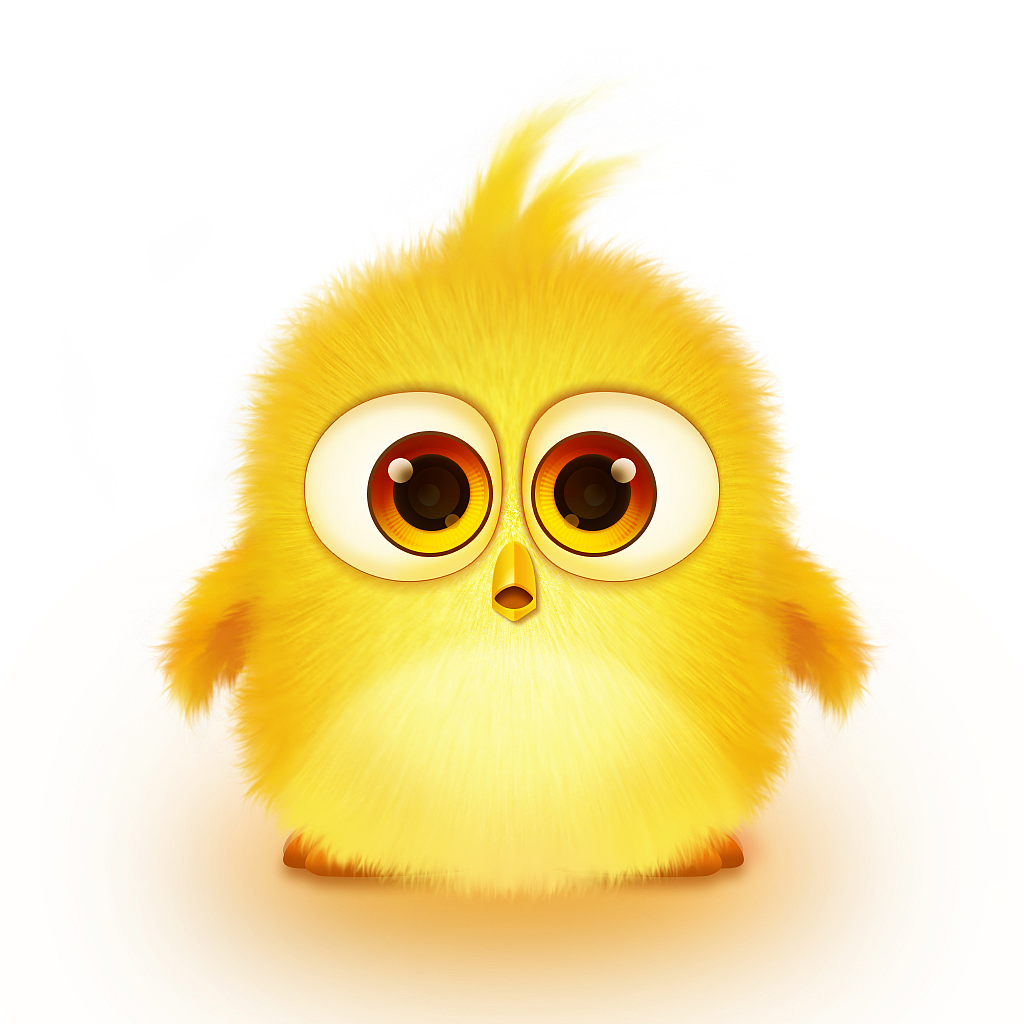
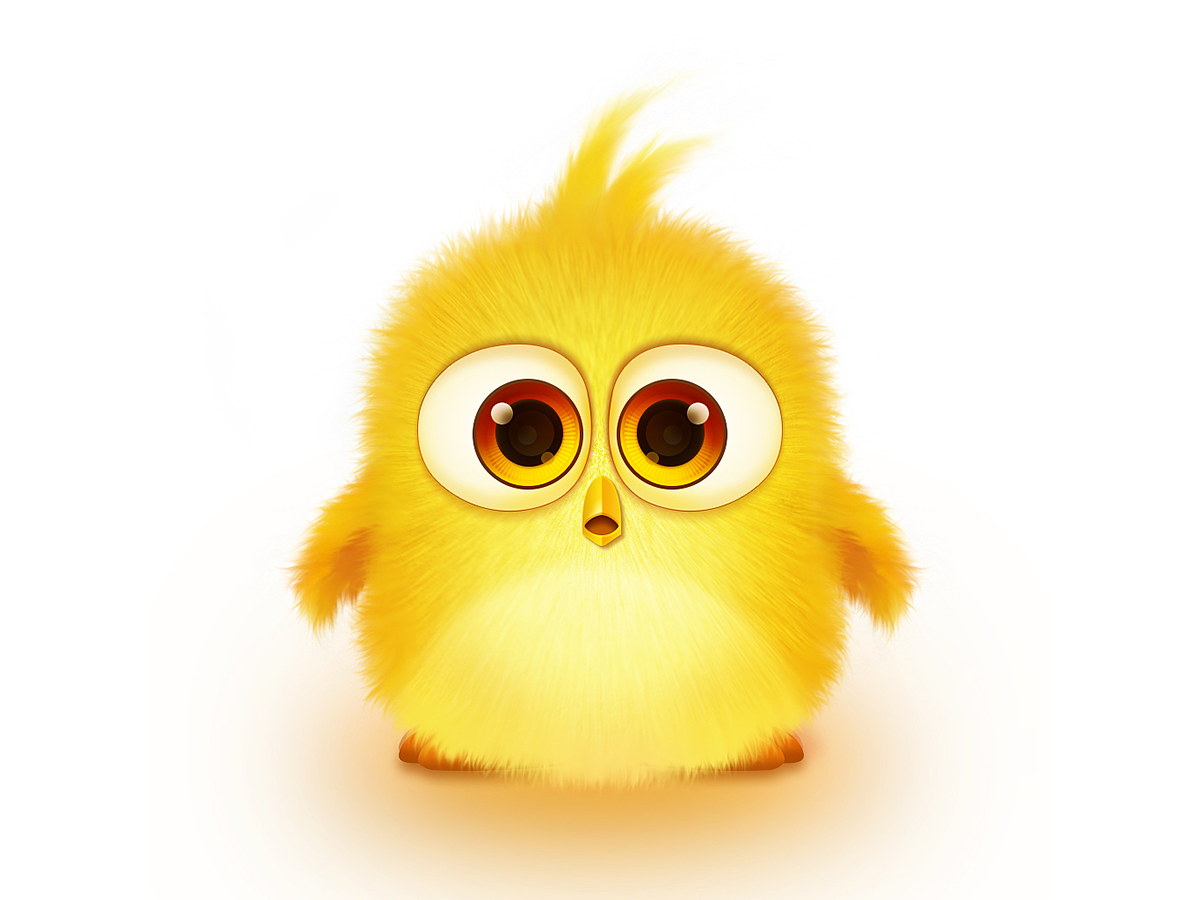
change frontend for the new bot

Changed region(s): [[0.125, 0.0933, 0.875, 0.9644]]

diff --git a/BotFront/src/components/ChooseBot.vue b/BotFront/src/components/ChooseBot.vue
@@ -34,7 +34,7 @@
     </el-col>
   </el-row>
     <el-row :gutter="20">
-    <el-col :span="6" :offset="6">
+    <el-col :span="6" :offset="3">
       <el-card :body-style="{ padding: '10px' }" shadow="hover">
         <img src="../assets/film.jpeg" class="image" alt=""/>
         <div class="undpic">
@@ -46,10 +46,22 @@
     </el-col>
     <el-col :span="6">
       <el-card :body-style="{ padding: '10px' }" shadow="hover">
+        <img src="../assets/xhj.png" class="image" alt=""/>
+        <div class="undpic">
+          <div class="bottom clearfix">
+            <el-button type="text" class="button" v-on:click="chooseABot(5)">闲聊-小黄鸡版</el-button>
+          </div>
+        </div>
+      </el-card>
+    </el-col>
+    <el-col :span="6">
+      <el-card :body-style="{ padding: '10px' }" shadow="hover">
         <img src="../assets/other.jpeg" class="image" alt=""/>
+        <div class="undpic">
           <div class="bottom clearfix">
             <el-button type="text" class="button">更多功能等待开发</el-button>
           </div>
+        </div>
       </el-card>
     </el-col>
   </el-row>

diff --git a/BotFront/src/store/UserStateStore.js b/BotFront/src/store/UserStateStore.js
@@ -2,7 +2,8 @@ export const botnames = [
   'SECBot-小闲',
   'SECBot-小诗',
   'SECBot-小问',
-  'SECBot-小影'
+  'SECBot-小影',
+  'SECBot-小黄鸡'
 ];
 
 export var ustore = {
@@ -17,7 +18,7 @@ export var ustore = {
     return;
   },
   set_bot(newValue) {
-    if (newValue > 0 && newValue < 5) {
+    if (newValue > 0 && newValue < 6) {
       let index = newValue - 1;
       this.state.botindex = index;
       this.state.botname = botnames[index];

diff --git a/BotFront/test/unit/specs/UserStateStore.spec.js b/BotFront/test/unit/specs/UserStateStore.spec.js
@@ -6,7 +6,8 @@ describe('UserStateStore.js', () => {
         'SECBot-小闲',
         'SECBot-小诗',
         'SECBot-小问',
-        'SECBot-小影'
+        'SECBot-小影',
+        'SECBot-小黄鸡'
       ])
     }),
     it('ustore', () => {
